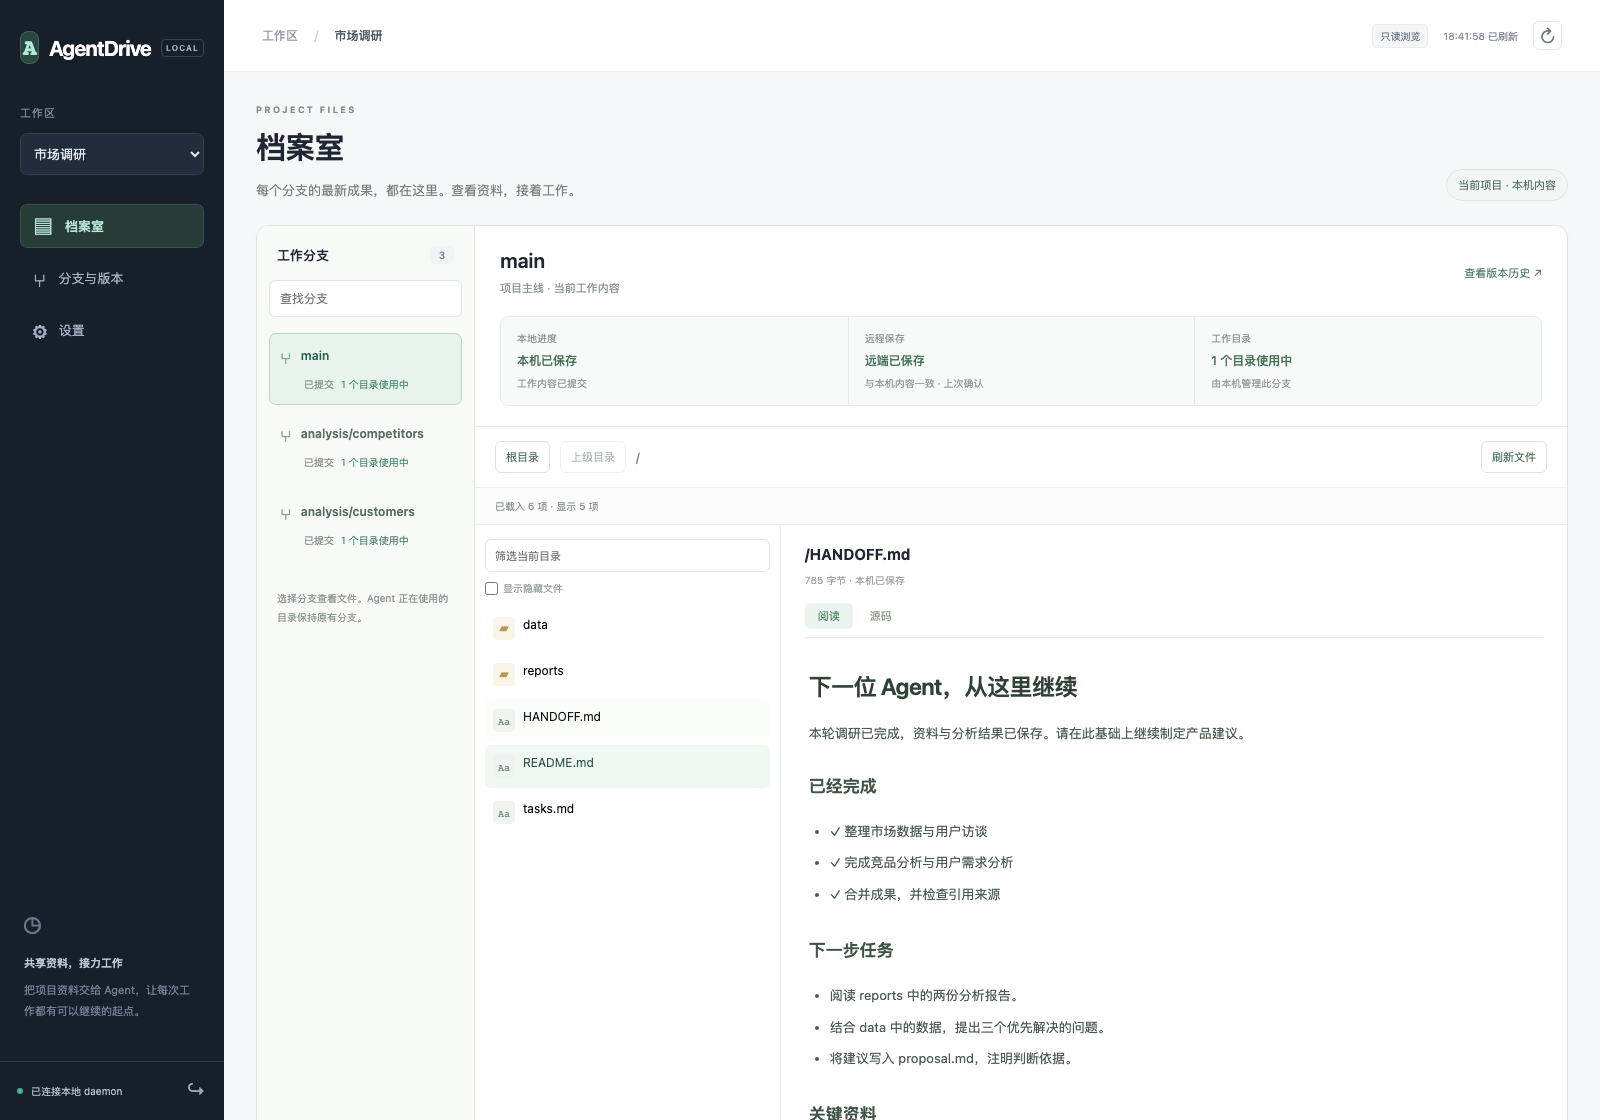
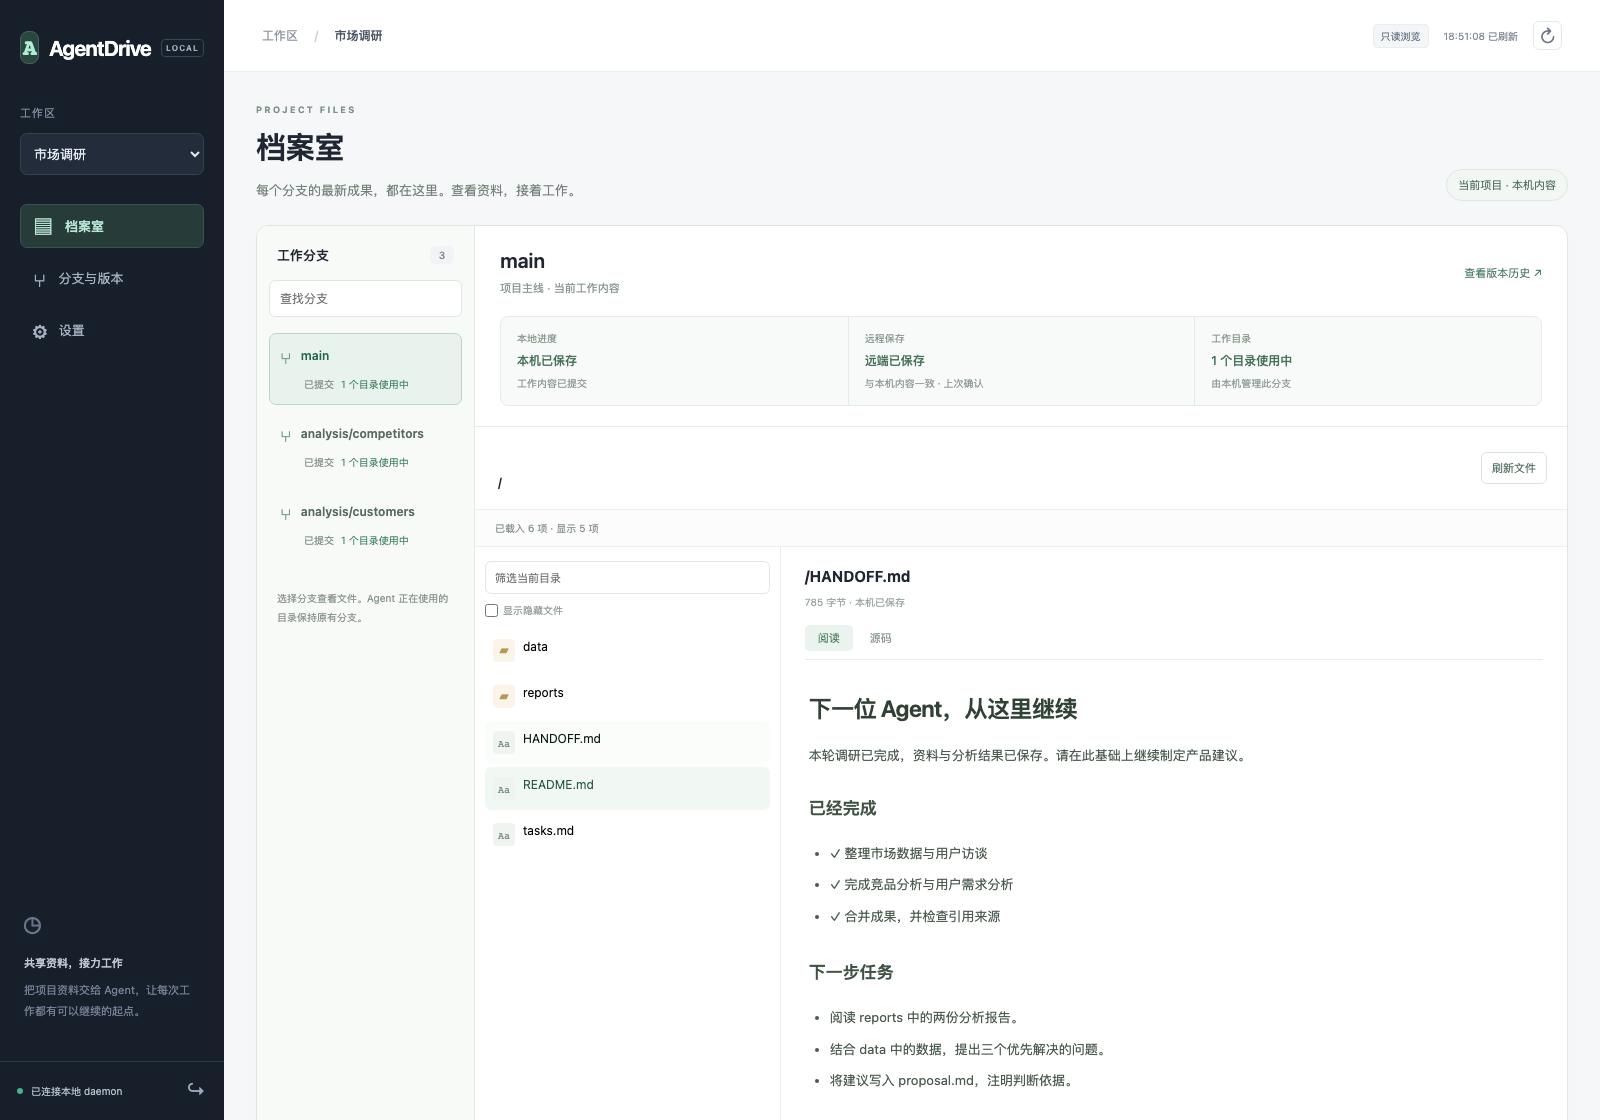
feat(dashboard): navigate directories with clickable breadcrumbs

diff --git a/crates/agentdrive-mcp/dashboard/file-browser.js b/crates/agentdrive-mcp/dashboard/file-browser.js
@@ -3,11 +3,9 @@ import { renderDocument } from './file-preview.js';
 export function createFileBrowser({api, element, container, onNavigate}) {
   const body = element('section', 'branch-files-body');
   const toolbar = element('div', 'branch-files-toolbar');
-  const root = element('button', 'secondary', '根目录'); root.type = 'button';
-  const up = element('button', 'secondary', '上级目录'); up.type = 'button';
   const refresh = element('button', 'secondary', '刷新文件'); refresh.type = 'button';
-  const directory = element('code', 'branch-directory');
-  toolbar.append(root, up, directory, refresh);
+  const directory = element('nav', 'branch-directory'); directory.setAttribute('aria-label', '目录路径');
+  toolbar.append(directory, refresh);
   const status = element('p', 'changes-status'); status.setAttribute('role', 'status');
   const layout = element('div', 'changes-layout');
   const sidebar = element('div', 'changed-files');
@@ -123,10 +121,29 @@ export function createFileBrowser({api, element, container, onNavigate}) {
     } catch (error) { if (!current.signal.aborted) failure(status, error, () => page(append)); }
     finally { if (!current.signal.aborted) more.disabled = false; }
   }
+  function renderDirectory() {
+    const focused = directory.contains(document.activeElement) ? document.activeElement.dataset.path : null;
+    directory.replaceChildren();
+    const segment = (name, destination) => {
+      const button = element('button', 'directory-segment', name); button.type = 'button';
+      button.dataset.path = destination; button.title = destination;
+      if (destination === '/') button.setAttribute('aria-label', '根目录');
+      if (destination === path) button.setAttribute('aria-current', 'location');
+      button.onclick = () => navigate(destination);
+      directory.append(button);
+      if (focused === destination) button.focus({preventScroll:true});
+    };
+    segment('/', '/');
+    let destination = '';
+    path.split('/').filter(Boolean).forEach((name, index) => {
+      if (index) { const separator = element('span', 'directory-separator', '/'); separator.setAttribute('aria-hidden', 'true'); directory.append(separator); }
+      destination += '/' + name; segment(name, destination);
+    });
+  }
   function navigate(destination, latest = false) {
     request?.abort(); fileRequest?.abort(); path = destination; cursor = null; selected = null; entries = []; filter.value = '';
     if (latest) { version = null; changed = false; }
-    directory.textContent = path; onNavigate?.(path); up.disabled = path === '/';
+    renderDirectory(); onNavigate?.(path);
     list.replaceChildren(); preview.replaceChildren(); more.hidden = true; status.textContent = '正在读取目录…'; page();
   }
   function show(workspace, branch, destination = '/') {
@@ -140,7 +157,6 @@ export function createFileBrowser({api, element, container, onNavigate}) {
     if (version && expected !== version) { changed = true; status.textContent = '分支内容已更新，可点击“刷新文件”读取最新内容。'; }
   }
   filter.oninput = renderEntries; hiddenFiles.onchange = renderEntries;
-  root.onclick = () => navigate('/'); up.onclick = () => navigate(path.slice(0,path.lastIndexOf('/')) || '/');
   refresh.onclick = () => navigate(path, true); more.onclick = () => page(true);
   return {show, update, clear, refresh:() => context && navigate(path, true)};
 }

diff --git a/crates/agentdrive-mcp/dashboard/dashboard.css b/crates/agentdrive-mcp/dashboard/dashboard.css
@@ -977,7 +977,11 @@ body:has(.revision-dialog[open]) { overflow:hidden; }
 
 .branch-files-body {padding:24px; min-width:0;}
 .branch-files-toolbar,.branch-file-navigation {display:flex; gap:12px; flex-wrap:wrap; align-items:center; margin-bottom:16px;}
-.branch-directory {flex:1; overflow-wrap:anywhere; min-width:100px;}
+.branch-directory {flex:1; display:flex; align-items:center; flex-wrap:wrap; min-width:100px; color:var(--muted);}
+.directory-segment {border:0; border-radius:4px; background:transparent; color:inherit; padding:5px 3px; overflow-wrap:anywhere; min-width:0; text-align:left;}
+.directory-segment:hover {background:var(--green-bg); color:var(--green);}
+.directory-segment[aria-current] {color:var(--ink); font-weight:600;}
+.directory-separator {color:var(--muted);}
 .branch-file-list {max-height:55vh; overflow-y:auto;}
 .branch-file-kind {font-size:12px; color:var(--muted); flex-shrink:0;}
 .branch-file-path {overflow-wrap:anywhere; margin-top:0;}
